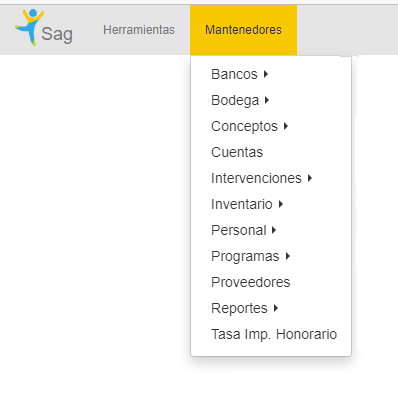
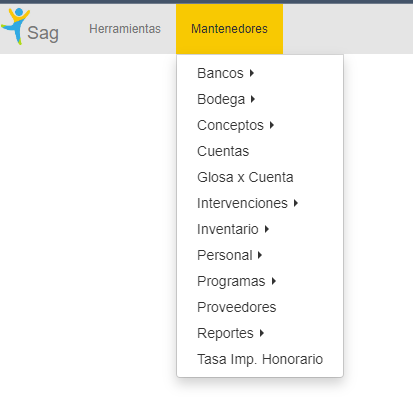
Actualizacion
Se actualizo el manual segun los cambios

Changed region(s): [[0.0, 0.0, 1.0, 0.9481]]

diff --git a/AyudaM/Manual/index.html b/AyudaM/Manual/index.html
@@ -117,6 +117,7 @@
               <li><a class="d-inline-flex align-items-center rounded text-decoration-none" href="#ControlInterno">Bodega </a></li>
               <li><a class="d-inline-flex align-items-center rounded text-decoration-none" href="#Informes">Conceptos</a></li>
               <li><a class="d-inline-flex align-items-center rounded text-decoration-none" href="#Supervisores">Cuentas</a></li>
+              <li><a class="d-inline-flex align-items-center rounded text-decoration-none" href="#GlosaCuenta">Glosa x Cuenta</a></li>
               <li><a class="d-inline-flex align-items-center rounded text-decoration-none" href="#Administracion">Intervenciones</a></li>
               <li><a class="d-inline-flex align-items-center rounded text-decoration-none" href="#Inventario">Inventario</a></li>
               <li><a class="d-inline-flex align-items-center rounded text-decoration-none" href="#Personal">Personal</a></li>
@@ -470,6 +471,28 @@
               </div>
           </div>
       </article>
+      <article class="my-3" id="GlosaCuenta">
+        <div class="bd-heading sticky-xl-top align-self-start mt-5 mb-3 mt-xl-0 mb-xl-2">
+            <h3>Mantenedores</h3>
+        </div>
+
+        <div>
+            <div class="bd-example-snippet bd-code-snippet">
+                <div class="bd-example">
+                    <p class="display-6">5.5 Glosa x Cuenta</p>
+                    <p> Al presionar en Mantenedores – Glosa xCuentas, se abre un recuadro el cual nos permite seleccionar la cuenta e Ingresar la Glosa y los respaldos , donde existen palabras Reservadas en la Glosa 
+                      los cuales son : </br>
+                      _periodo	:	Periodo Contable </br>
+                      _mes	:	Mes contable </br>
+                      _nProyecto	:	codigo codeni - Nombre Proyecto </br>
+                      _proyecto	:	Nombre Proyecto </br>
+                      los cuales son utlizados en los Ingresos y Egresos
+                      , la siguiente imagen muestra el mantenedor:</p>
+                    <img src="../Imagenes/GlosaCuentas.png" class="img-fluid">
+                </div>
+            </div>
+        </div>
+    </article>
       <article class="my-3" id="Administracion">
           <div class="bd-heading sticky-xl-top align-self-start mt-5 mb-3 mt-xl-0 mb-xl-2">
               <h3>Mantenedores</h3>
@@ -478,7 +501,7 @@
           <div>
               <div class="bd-example-snippet bd-code-snippet">
                   <div class="bd-example">
-                      <p class="display-6">5.5 Intervenciones</p>
+                      <p class="display-6">5.6 Intervenciones</p>
                       <p>Al presionar en Mantenedores – Intervenciones, se despliega una lista de opciones las cuales permite modificar o crear datos del programa para el valor de las intervenciones, tanto como Medida de Protección o Sobre Atenciones por 80 BIS:</p>
                       <img src="../Imagenes/Intervenciones.png" class="img-fluid">
                   </div>
@@ -493,7 +516,7 @@
         <div>
             <div class="bd-example-snippet bd-code-snippet">
                 <div class="bd-example">
-                    <p class="display-6">5.6 Inventarios</p>
+                    <p class="display-6">5.7 Inventarios</p>
                     <p>Al presionar en Mantenedores – Inventario, se despliega una lista de opciones las cuales permite modificar o crear, Familias, Sub Familias, Estados, Procedencias, Condición y Dependencias de Inventario:</p>
                     <img src="../Imagenes/Inventario.png" class="img-fluid">
                 </div>
@@ -508,7 +531,7 @@
       <div>
           <div class="bd-example-snippet bd-code-snippet">
               <div class="bd-example">
-                  <p class="display-6">5.7 Personal</p>
+                  <p class="display-6">5.8 Personal</p>
                   <p>Al presionar en Mantenedores – Personal se despliega una lista de opciones las cuales permite visualizar, modificar o crear tanto Profesión, Cargos y Asignar Roles a los usuarios.</p>
                   <img src="../Imagenes/mPersonal.png" class="img-fluid"><br>
                   <p>Al seleccionar las siguientes opciones:<br><strong>Maestro Personal :</strong><br>Permite buscar y crear al personal de un programa, según la siguiente imagen:</p>
@@ -533,7 +556,7 @@
     <div>
         <div class="bd-example-snippet bd-code-snippet">
             <div class="bd-example">
-                <p class="display-6">5.8 Programas</p>
+                <p class="display-6">5.9 Programas</p>
                 <p>Al presionar en Mantenedores – Programas se despliega una lista de opciones para crear o modificar programas y contratos</p>
                 <img src="../Imagenes/MPrograma.png" class="img-fluid"><br>
                 <p>Al seleccionar las siguientes opciones: <br><strong>Programas:</strong>En el da la opción de Crear un programa en el Software SAG respetando el correlativo asignado en los programas o modificar los datos creados, según la siguiente imagen:
@@ -541,6 +564,10 @@
                 <img src="../Imagenes/Programa.png" class="img-fluid"><br>
                 <p><strong>Contratos:</strong>En el da la opción de Crear un Contrato para que figure en la Página de Inicio del programa en el Software SAG, según la siguiente imagen </p>
                 <img src="../Imagenes/contratos.png" class="img-fluid"><br>
+                <p>Listado Programa : Nos permite buscar los programas, segun el estado del programa donde podemos cambiar el estado </p>
+                <img src="../Imagenes/ListadoPrograma.png" class="img-fluid"><br>
+                <p>Listado Programa Presupuesto: Nos permite buscar los programas, segun Tipo , Programa o Region , mostrando la información del Programa, es posible exportarlo a Excel </p>
+                <img src="../Imagenes/ListadoProgramaPresupuesto.png" class="img-fluid"><br>
               </div>
         </div>
     </div>
@@ -553,7 +580,7 @@
   <div>
       <div class="bd-example-snippet bd-code-snippet">
           <div class="bd-example">
-              <p class="display-6"> 5.9 Proveedores </p>
+              <p class="display-6"> 5.10 Proveedores </p>
               <p>Al presionar en Mantenedores – Proveedores se despliega la siguiente pantalla la cual permite visualizar un proveedor creado o crear uno nuevo</p>
               <img src="../Imagenes/Proveedores.png" class="img-fluid">
           </div>
@@ -568,7 +595,7 @@
   <div>
       <div class="bd-example-snippet bd-code-snippet">
           <div class="bd-example">
-              <p class="display-6">5.10 Reportes</p>
+              <p class="display-6">5.11 Reportes</p>
               <p>Al presionar en Mantenedores – Reportes se despliega una lista con Tipo de Reportes y Contenido Reporte que es solo para desarrollo en los reportes de Estados de Resultado.</p>
               <img src="../Imagenes/Mreportes.png" class="img-fluid">
           </div>
@@ -583,7 +610,7 @@
   <div>
       <div class="bd-example-snippet bd-code-snippet">
           <div class="bd-example">
-              <p class="display-6">5.11 Tasa Imp. Honorario</p>
+              <p class="display-6">5.12 Tasa Imp. Honorario</p>
               <p>Al presionar en Mantenedores – Tasa Imp. Honorario se despliega una pantalla que permite visualizar la Tasa de Impuesto de Honorarios o crear una nueva, esto se crea una vez al año según SII, por honorarios por segunda categoría o honorarios con préstamos estatal. <br>
                 Al crearse habilita la tasa de impuesto al seleccionar en un egreso con boleta de honorarios.
               </p>
@@ -722,7 +749,7 @@
                 En el Menú al presionar Rendición de Cuentas – Corregir Honorarios, da la siguiente opción:
               </p>
               <img src="../Imagenes/corregirH.png" class="img-fluid"><br>
-              <p><i>Esta opción es utilizada cuando una boleta queda emitida y se debe modificar, cuando en el informe de honorarios se visualiza alguna boleta sin conciliar.</i></p>
+              <p><i>Esta opción es utilizada cuando una boleta queda emitida y se debe modificar, nos permite buscar por periodo, cuando la boleta no esta asociada a un egreso, nos mostrara con color Rojo permitiendo eliminarla.</i></p>
           </div>
       </div>
   </div>
